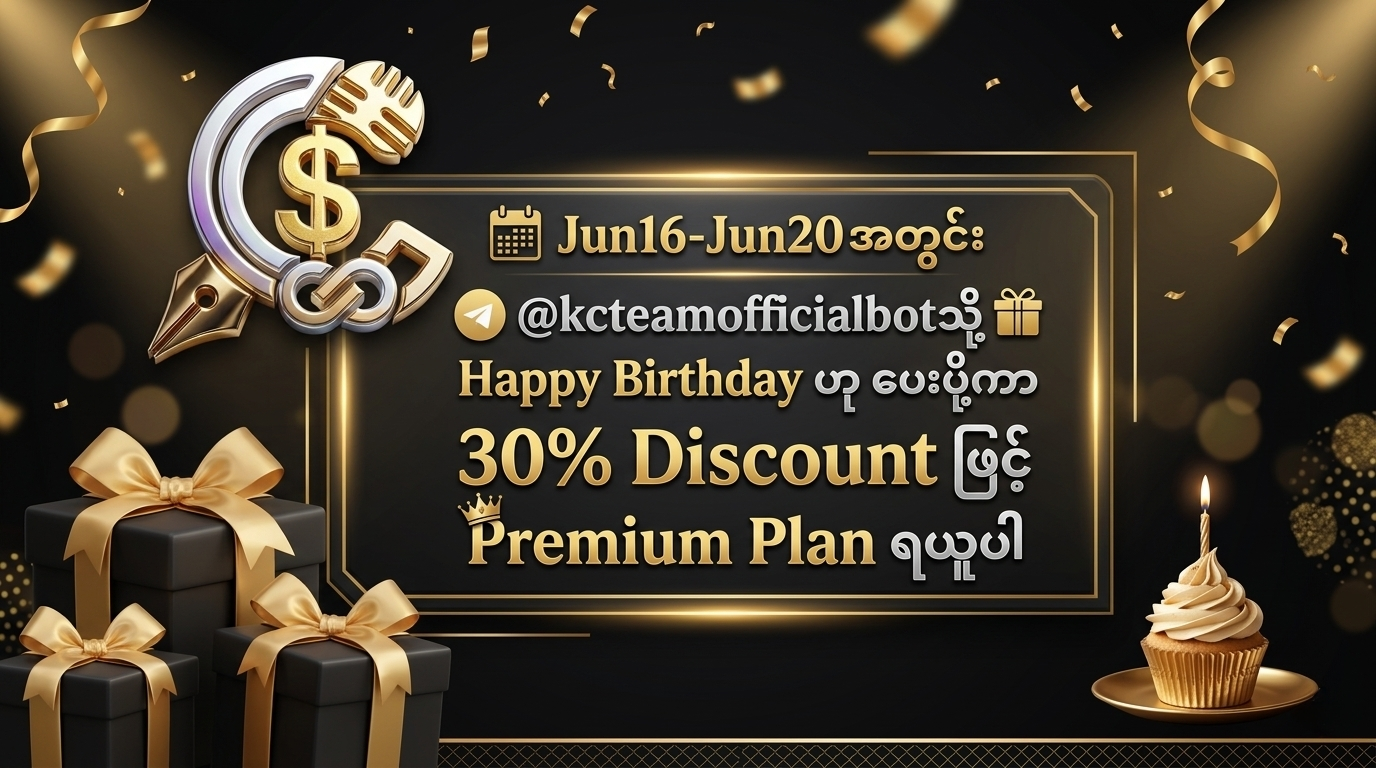
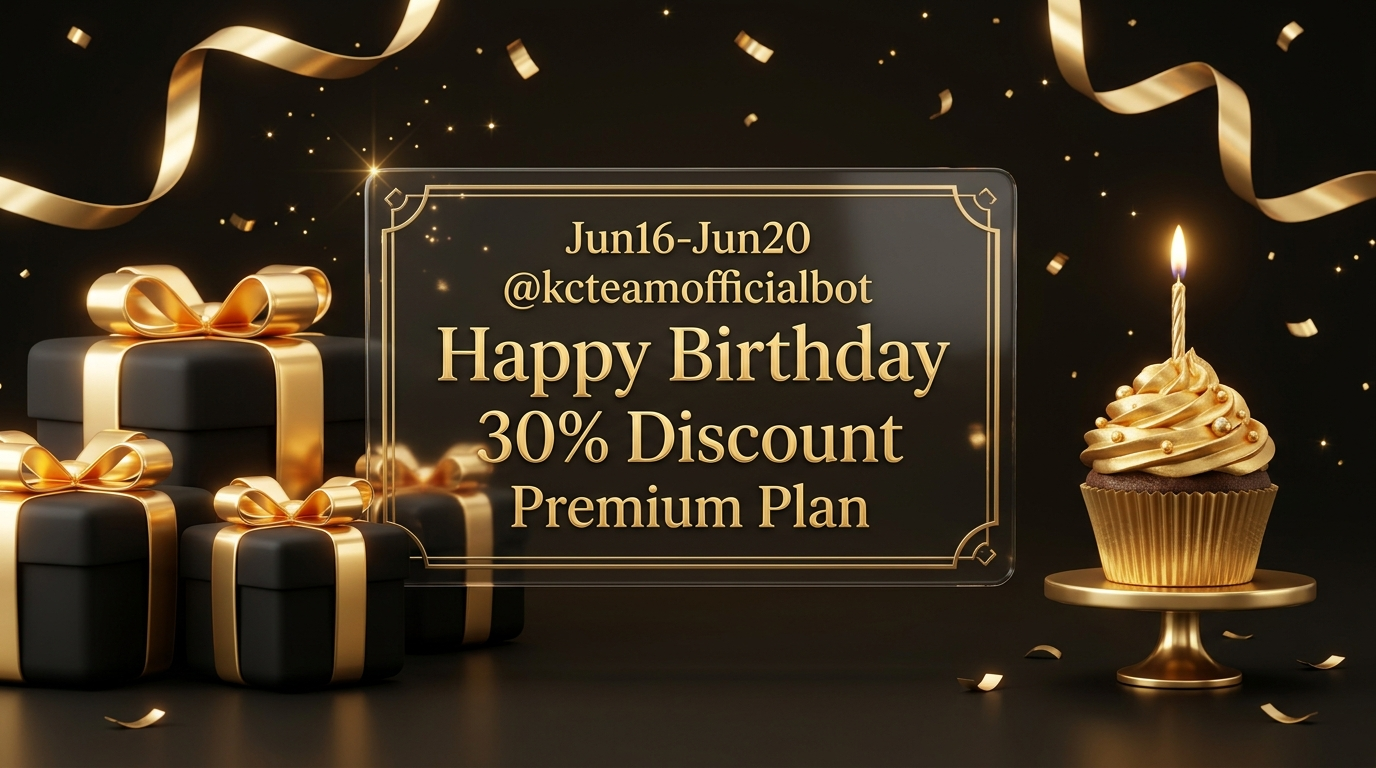
feat: update UI, enhance AIVoice, and add usage tracking
- Update BannerCarousel UI for service promotion
- Persist pronunciation text in AIVoice feature
- Add helper tool and usage decrement functionality

diff --git a/features/AIVoice.tsx b/features/AIVoice.tsx
@@ -4,7 +4,7 @@ import { toast } from 'sonner';
 import { GoogleGenAI, Modality } from "@google/genai";
 import { getAIClient } from '../services/gemini';
 import { Card, Button, TextArea, Input, Select, ProgressBar, TutorialButton } from '../components/Shared';
-import { Play, Pause, Download, Trash2, History, ArrowLeft, Mic, Volume2, Users, User, StopCircle, Loader2, X } from 'lucide-react';
+import { Play, Pause, Download, Trash2, History, ArrowLeft, Mic, Volume2, Users, User, StopCircle, Loader2, X, HelpCircle } from 'lucide-react';
 import { FeatureType, ProcessingTask, UserSession } from '../types';
 import { KCAudioPlayer } from './KCAudioPlayer';
 import { GeminiAudioPlayer } from '../components/GeminiAudioPlayer';
@@ -108,7 +108,11 @@ const AIVoice: React.FC<AIVoiceProps> = ({ session, onStartTask, tasks, onBack, 
   const [kcVolume, setKcVolume] = useState(0);
   const [kcManualOpen, setKcManualOpen] = useState(false);
   const [kcPronunciationOpen, setKcPronunciationOpen] = useState(false);
-  const [kcManualText, setKcManualText] = useState(`Intro = အင်ထရို\nတူမလေး = တူ မ လေး`);
+  const [showPronunciationHelp, setShowPronunciationHelp] = useState(false);
+  const [kcManualText, setKcManualText] = useState(() => {
+    const saved = localStorage.getItem('kc_manual_text');
+    return saved !== null ? saved : `Intro = အင်ထရို\nတူမလေး = တူ မ လေး`;
+  });
   const [kcLoading, setKcLoading] = useState(false);
   const [timerCount, setTimerCount] = useState(0);
   const [kcResult, setKcResult] = useState<{ status: string; audio_url: string; srt_url: string; fileName?: string } | null>(null);
@@ -148,6 +152,21 @@ const AIVoice: React.FC<AIVoiceProps> = ({ session, onStartTask, tasks, onBack, 
       return;
     }
 
+    let usageIncremented = false;
+    let hasDecremented = false;
+
+    const doDecrement = async () => {
+      if (usageIncremented && !hasDecremented) {
+        hasDecremented = true;
+        try {
+          const { decrementUsage } = await import('../services/usageService');
+          await decrementUsage('ai_voice', session.role !== 'free' ? (session.user?.id || 'logged_in') : null);
+        } catch (decErr) {
+          console.error('Failed to decrement usage:', decErr);
+        }
+      }
+    };
+
     try {
       setIsCheckingUsage(true);
       const { checkAndIncrementUsage } = await import('../services/usageService');
@@ -157,6 +176,7 @@ const AIVoice: React.FC<AIVoiceProps> = ({ session, onStartTask, tasks, onBack, 
         toast.error(message || 'Daily limit exceeded');
         return;
       }
+      usageIncremented = true;
     } finally {
       setIsCheckingUsage(false);
     }
@@ -174,7 +194,11 @@ const AIVoice: React.FC<AIVoiceProps> = ({ session, onStartTask, tasks, onBack, 
       .replace(/\[\s*C2\s*\]/gi, '[V2]')
       .replace(/\[\s*C3\s*\]/gi, '[V3]');
 
-    let processedText = applyPronunciation(apiCompatibleText, customMap);
+    // Only filter out characters that can cause JSON formatting crashes (like / , " ' ` ( ) { } \ etc.)
+    // Do NOT replace/substitute the custom pronunciation words on the client-side before sending!
+    let processedText = apiCompatibleText
+      .replace(/[\\/"'`\(\){},]/g, ' ')
+      .replace(/[ \t]+/g, ' ');
 
     setKcLoading(true);
     setKcResult(null);
@@ -208,14 +232,20 @@ const AIVoice: React.FC<AIVoiceProps> = ({ session, onStartTask, tasks, onBack, 
         const isCanceled = () => tasksRef.current.find(t => t.id === taskId)?.isCanceled;
 
         if (!response.ok) {
-          if (isCanceled()) return;
+          if (isCanceled()) {
+            await doDecrement();
+            return;
+          }
           const errorText = await response.text();
           console.error('API Error Response:', errorText);
           throw new Error(`Generation failed: ${response.statusText} - ${errorText}`);
         }
         const data = await response.json();
         
-        if (isCanceled()) return;
+        if (isCanceled()) {
+          await doDecrement();
+          return;
+        }
 
         const resultWithFileName = { ...data, fileName: kcFileName };
         setKcResult(resultWithFileName);
@@ -236,6 +266,7 @@ const AIVoice: React.FC<AIVoiceProps> = ({ session, onStartTask, tasks, onBack, 
         toast.success('Generated successfully!');
         return resultWithFileName;
       } catch (err) {
+        await doDecrement();
         if (tasksRef.current.find(t => t.id === taskId)?.isCanceled) return;
         console.error('Generation Error details:', err);
         const msg = err instanceof Error ? err.message : 'Generation failed.';
@@ -264,6 +295,10 @@ const AIVoice: React.FC<AIVoiceProps> = ({ session, onStartTask, tasks, onBack, 
   useEffect(() => {
     window.scrollTo(0, 0);
   }, []);
+
+  useEffect(() => {
+    localStorage.setItem('kc_manual_text', kcManualText);
+  }, [kcManualText]);
 
   useEffect(() => {
     const loadHistory = async () => {
@@ -1425,18 +1460,57 @@ const AIVoice: React.FC<AIVoiceProps> = ({ session, onStartTask, tasks, onBack, 
         {/* Pronunciation Rules */}
         {voiceEngine === 'kc_tts' && (
         <div className="bg-white border border-gray-200 rounded-xl shadow-sm mt-4">
-          <button
-            onClick={() => setKcPronunciationOpen(!kcPronunciationOpen)}
-            className="w-full flex items-center justify-between p-3"
-          >
-            <span className="text-xs font-bold text-gray-700 uppercase tracking-widest flex items-center gap-2">
+          <div className="w-full flex items-center justify-between p-3 border-b border-gray-100">
+            <div className="flex items-center gap-2">
               <span className="bg-indigo-100 p-1 rounded-sm"><span className="text-indigo-600">🔧</span></span>
-              Pronunciation Rules (အသံထွက် ပြင်ဆင်ရန်)
-            </span>
-            <span className="text-indigo-600 font-bold">{kcPronunciationOpen ? '▲' : '▼'}</span>
-          </button>
+              <span className="text-xs font-bold text-gray-700 uppercase tracking-widest flex items-center gap-1.5">
+                Custom Pronunciation (အသံထွက် သတ်မှတ်ရန်)
+              </span>
+              <button
+                type="button"
+                onClick={() => setShowPronunciationHelp(!showPronunciationHelp)}
+                className="text-gray-400 hover:text-indigo-600 transition-colors cursor-pointer p-0.5 rounded-full hover:bg-gray-100 flex items-center justify-center"
+                title="Help Guide"
+              >
+                <HelpCircle size={15} />
+              </button>
+            </div>
+            <button
+              onClick={() => setKcPronunciationOpen(!kcPronunciationOpen)}
+              className="text-indigo-600 font-bold hover:text-indigo-800 p-1 text-sm flex items-center"
+            >
+              {kcPronunciationOpen ? '▲' : '▼'}
+            </button>
+          </div>
+
+          {/* Help Box inside Pronunciation Rules component */}
+          {showPronunciationHelp && (
+            <div className="m-4 p-4 bg-indigo-50/65 border border-indigo-100 rounded-xl text-xs text-gray-700 leading-relaxed shadow-sm">
+              <div className="flex justify-between items-start mb-2">
+                <span className="font-bold flex items-center gap-1 text-indigo-900">
+                  💡 အသံထွက် ပြင်ဆင်ရန် လမ်းညွှန်
+                </span>
+                <button 
+                  onClick={() => setShowPronunciationHelp(false)}
+                  className="text-gray-400 hover:text-gray-600 p-0.5 rounded flex items-center justify-center"
+                >
+                  <X size={14} />
+                </button>
+              </div>
+              <p className="mb-2 text-gray-600">
+                AI မှ အသံထွက်မှားလေ့ရှိသော စာလုံးများ၊ ဂဏန်းများနှင့် အင်္ဂလိပ်စာလုံးများကို မှန်ကန်စွာ အသံထွက်နိုင်ရန် ဤနေရာတွင် အစားထိုး ပြင်ဆင်နိုင်ပါသည်။
+              </p>
+              <div className="bg-white/80 p-2.5 rounded-lg border border-indigo-100/40 space-y-1">
+                <p className="font-semibold text-indigo-950 mb-1">[ဥပမာများ]</p>
+                <p>• ဂဏန်းများ - "၁၀ရက်" အစား "ဆယ်ရက်" ဟု ထည့်ပါ။</p>
+                <p>• စကားလုံးများ - "တူမလေး" အစား "တူ မ လေး" ဟု ခွဲရေးပါ။</p>
+                <p>• အင်္ဂလိပ်စာလုံးများ - "Intro" အစား "အင်ထရို" ဟု မြန်မာလို အသံထွက်ရေးပါ။</p>
+              </div>
+            </div>
+          )}
+
           {kcPronunciationOpen && (
-            <div className="p-4 border-t border-gray-100">
+            <div className="p-4">
               <TextArea
                 value={kcManualText}
                 onChange={setKcManualText}

diff --git a/services/usageService.ts b/services/usageService.ts
@@ -200,3 +200,51 @@ export const checkAndIncrementUsage = async (
 
   return { allowed: true, remaining: limit - nextCount };
 };
+
+export const decrementUsage = async (
+  toolType: ToolType, 
+  userId?: string | null,
+  isLink?: boolean
+): Promise<void> => {
+  const identifier = userId || getDeviceId();
+  const dbToolType = (toolType === 'transcribe' && isLink) ? 'link_transcribe' : toolType;
+  const isGuest = !userId;
+
+  // Local storage decrement
+  if (isGuest) {
+    const localUsage = getLocalUsage();
+    if (localUsage[dbToolType] && localUsage[dbToolType] > 0) {
+      const newLocal = { ...localUsage, [dbToolType]: Math.max(0, localUsage[dbToolType] - 1) };
+      saveLocalUsage(newLocal);
+    }
+  }
+
+  // Database decrement
+  if (supabase) {
+    try {
+      const today = new Date().toISOString().split('T')[0];
+      const { data, error } = await supabase
+        .from('tool_usage')
+        .select('count')
+        .eq('identifier', identifier)
+        .eq('tool_type', dbToolType)
+        .eq('usage_date', today)
+        .single();
+
+      if (!error && data && data.count > 0) {
+        const nextCount = Math.max(0, data.count - 1);
+        await supabase
+          .from('tool_usage')
+          .upsert({
+            identifier,
+            tool_type: dbToolType,
+            usage_date: today,
+            count: nextCount
+          }, { onConflict: 'identifier, tool_type, usage_date' });
+      }
+    } catch (e) {
+      console.error('Database usage decrement error:', e);
+    }
+  }
+};
+

diff --git a/components/BannerCarousel.tsx b/components/BannerCarousel.tsx
@@ -202,22 +202,22 @@ export const BannerCarousel: React.FC = () => {
         return (
           <div className="w-full h-full flex flex-col justify-center items-center bg-gradient-to-r from-red-600 via-rose-600 to-amber-600 text-white p-4 md:p-6 text-center select-none relative overflow-hidden font-aka07">
             <div className="absolute top-2 left-3 md:top-3 md:left-4 bg-white/20 backdrop-blur-md px-3 py-1 rounded-full text-[9px] md:text-xs font-black tracking-widest uppercase border border-white/25">
-              🇯🇵 JAPAN EXCLUSIVE
+              📱 TIKTOK & BANK SERVICES
             </div>
-            <div className="max-w-2xl px-2 space-y-2 md:space-y-3">
-              <h3 className="text-base sm:text-xl md:text-2xl font-black text-yellow-300 drop-shadow-md">
-                Japan TikTok Acc
+            <div className="max-w-2xl px-2 space-y-3 md:space-y-4">
+              <h3 className="text-lg sm:text-2xl md:text-3xl font-black text-yellow-300 drop-shadow-md tracking-wide leading-normal">
+                TikTok ID တင်ခြင်း
               </h3>
-              <p className="text-sm sm:text-lg md:text-xl font-bold leading-normal">
-                TikTok Id တင်၊ Bank ချိတ်
+              <p className="text-sm sm:text-lg md:text-xl font-bold leading-relaxed text-white drop-shadow-lg">
+                Bank ချိတ် service များအပ်နှံနိုင်ပါပြီ
               </p>
               <span className="inline-flex items-center gap-2 bg-black/35 backdrop-blur-md text-red-200 border border-red-500/30 py-1.5 px-5 rounded-2xl text-xs sm:text-sm font-semibold shadow">
                 <span className="w-2.5 h-2.5 rounded-full bg-red-500 inline-block animate-ping"></span>
-                Service Partner များ ဆက်သွယ်နိုင်ပါသည်။
+                စိတ်ချယုံကြည်စွာ အပ်နှံနိုင်ပါသည်။
               </span>
             </div>
             <div className="absolute bottom-2 right-3 md:bottom-3 md:right-4 text-[10px] sm:text-xs text-amber-200 font-semibold uppercase tracking-wider">
-              KC International
+              KC Service Partner
             </div>
           </div>
         );